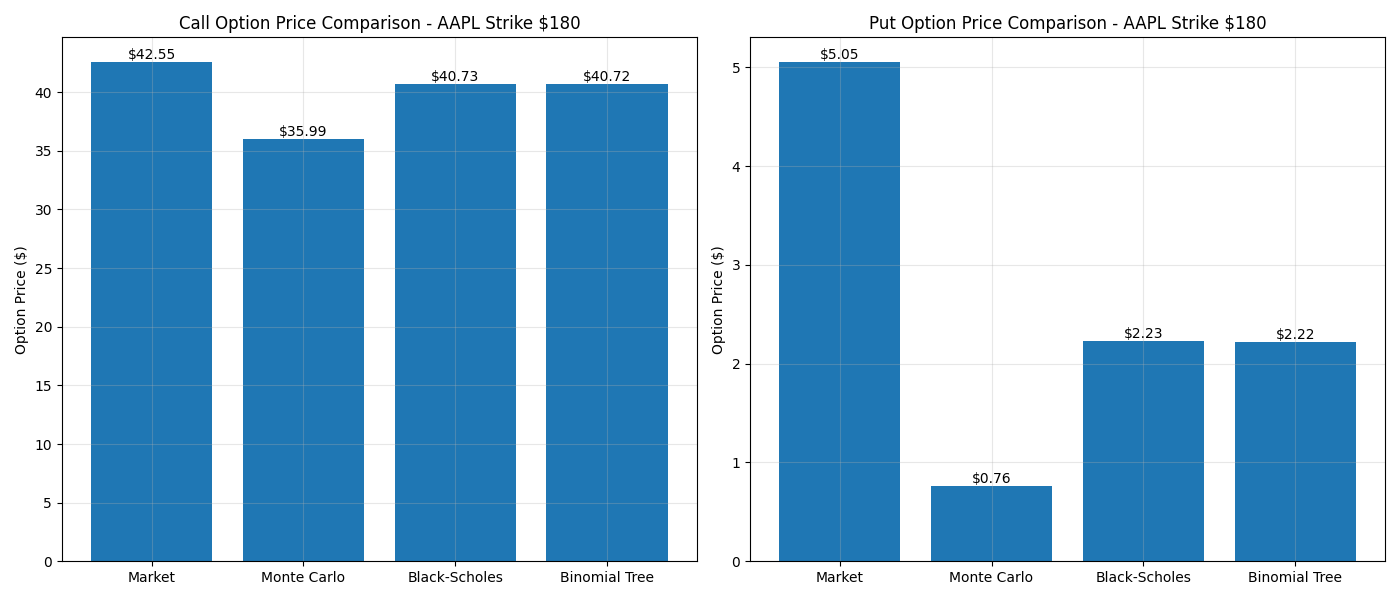
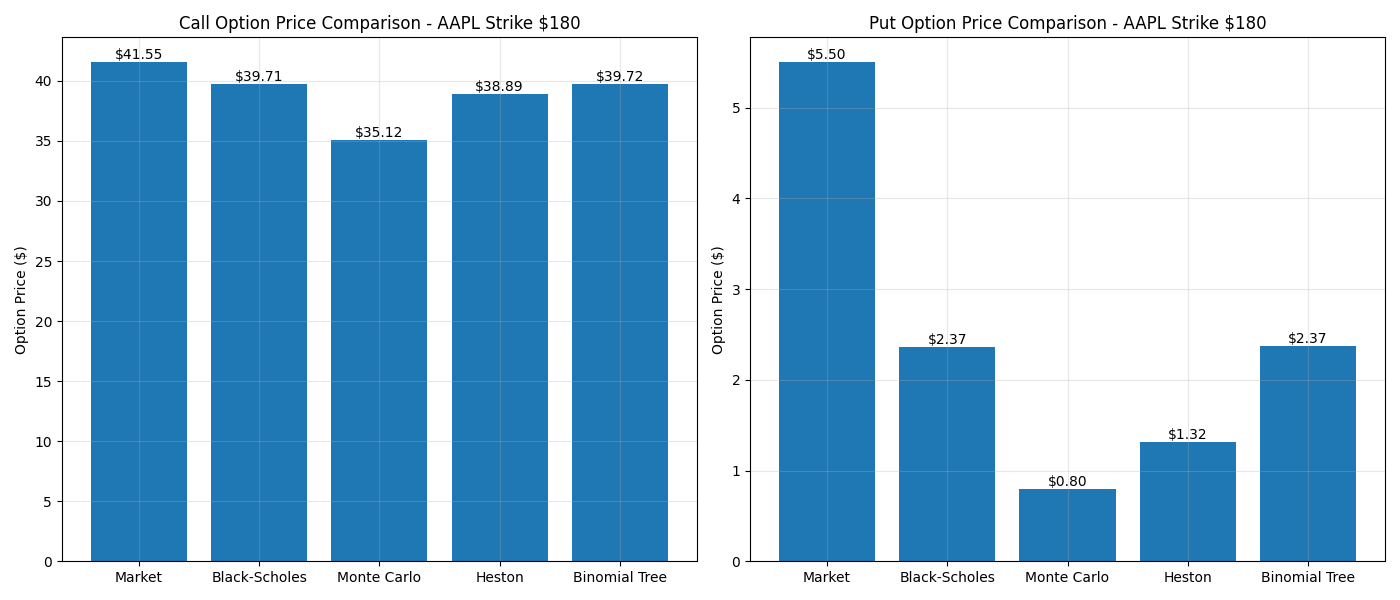
Ajout image

diff --git a/services/option_pricer.py b/services/option_pricer.py
@@ -1,45 +1,53 @@
+import numpy as np
 import matplotlib.pyplot as plt
-from models.monte_carlo_pricer import MonteCarloPricer
+from models import monte_carlo_pricer
 from models.black_scholes_pricer import BlackScholesPricer
+from models.monte_carlo_pricer import MonteCarloPricer
+from models.heston_pricer import HestonPricer
+from models.binomial_tree_pricer import BinomialTreePricer
 from data.market_data import MarketData
 from models.greek_calculator import GreekCalculator
-from models.binomial_tree_pricer import BinomialTreePricer
 
 class OptionPricer:
-    def __init__(self, option, stock_data, num_simulations=10000, num_steps=100):
+    def __init__(self, option, stock_data, num_simulations=10000, num_steps=252):
         """
         Initialise le pricer d'options.
 
         :param option: L'option à pricer (classe Option).
         :param stock_data: Les données de l'actif sous-jacent (classe StockData).
-        :param num_simulations: Nombre de simulations pour la méthode Monte Carlo (par défaut 10 000).
-        :param num_steps: Nombre de pas de temps pour l'arbre binomial (par défaut 100).
+        :param num_simulations: Nombre de simulations pour Monte Carlo (par défaut 10 000).
+        :param num_steps: Nombre de pas de temps pour les simulations (par défaut 252).
         """
         self.option = option
         self.stock_data = stock_data
         self.num_simulations = num_simulations
         self.num_steps = num_steps
-        self.monte_carlo_pricer = MonteCarloPricer(option, stock_data, num_simulations)
+
+        # Initialisation des pricers
         self.black_scholes_pricer = BlackScholesPricer(option, stock_data)
-        self.binomial_tree_pricer = BinomialTreePricer(option, stock_data, num_steps)  # Ajoutez cette ligne
+        self.monte_carlo_pricer = MonteCarloPricer(option, stock_data, num_simulations)
+        self.heston_pricer = HestonPricer(option, stock_data, kappa=2.0, theta=0.04, xi=0.1, rho=-0.7, v0=0.04)
+        self.binomial_tree_pricer = BinomialTreePricer(option, stock_data, num_steps) 
         self.market_data = MarketData(option)
         self.greek_calculator = GreekCalculator(option, stock_data)
 
     def compare_prices(self):
         """
-        Compare les prix des options (call et put) calculés par Monte Carlo, Black-Scholes, l'arbre binomial et le marché.
-        Affiche également les grecques.
+        Compare les prix des options (call et put) calculés par Black-Scholes, Monte Carlo, Heston, Binomial Tree et le marché.
+        Affiche également les grecques, les trajectoires de Heston et un histogramme des prix finaux.
         """
         # Calcul des prix pour les calls
-        mc_call_price = self.monte_carlo_pricer.price_call()
         bs_call_price = self.black_scholes_pricer.price_call()
-        bt_call_price = self.binomial_tree_pricer.price_call()  # Ajoutez cette ligne
+        mc_call_price = self.monte_carlo_pricer.price_call()
+        heston_call_price = self.heston_pricer.price_call(self.num_simulations, self.num_steps)
+        binomial_call_price = self.binomial_tree_pricer.price_call()
         market_call_price = self.market_data.get_market_price(call=True)
 
         # Calcul des prix pour les puts
-        mc_put_price = self.monte_carlo_pricer.price_put()
         bs_put_price = self.black_scholes_pricer.price_put()
-        bt_put_price = self.binomial_tree_pricer.price_put()  # Ajoutez cette ligne
+        mc_put_price = self.monte_carlo_pricer.price_put()
+        heston_put_price = self.heston_pricer.price_put(self.num_simulations, self.num_steps)
+        binomial_put_price = self.binomial_tree_pricer.price_put()
         market_put_price = self.market_data.get_market_price(call=False)
 
         # Calcul des grecques
@@ -57,9 +65,10 @@ class OptionPricer:
         print("-" * 30)
         if market_call_price is not None:
             print(f"{'Market':<15} ${market_call_price:>9.2f}")
-        print(f"{'Monte Carlo':<20} {mc_call_price:>9.2f} $")
         print(f"{'Black-Scholes':<20} {bs_call_price:>9.2f} $")
-        print(f"{'Binomial Tree':<20} {bt_call_price:>9.2f} $")  # Ajoutez cette ligne
+        print(f"{'Monte Carlo':<20} {mc_call_price:>9.2f} $")
+        print(f"{'Heston':<20} {heston_call_price:>9.2f} $")
+        print(f"{'Binomial Tree':<20} {binomial_call_price:>9.2f} $")
 
         # Résultats pour les puts
         print(f"\nPricing Results for Puts:")
@@ -67,9 +76,10 @@ class OptionPricer:
         print("-" * 30)
         if market_put_price is not None:
             print(f"{'Market':<15} ${market_put_price:>9.2f}")
-        print(f"{'Monte Carlo':<20} {mc_put_price:>9.2f} $")
         print(f"{'Black-Scholes':<20} {bs_put_price:>9.2f} $")
-        print(f"{'Binomial Tree':<20} {bt_put_price:>9.2f} $")  # Ajoutez cette ligne
+        print(f"{'Monte Carlo':<20} {mc_put_price:>9.2f} $")
+        print(f"{'Heston':<20} {heston_put_price:>9.2f} $")
+        print(f"{'Binomial Tree':<20} {binomial_put_price:>9.2f} $")
 
         # Affichage des grecques
         print(f"\nGreeks:")
@@ -79,25 +89,50 @@ class OptionPricer:
         print(f"{'Vega':<10} {vega:.4f}")
         print(f"{'Rho':<10} {rho:.4f}")
 
-        # Visualisation des résultats
-        self.plot_price_comparison(mc_call_price, bs_call_price, bt_call_price, market_call_price,
-                                  mc_put_price, bs_put_price, bt_put_price, market_put_price)
+        # Visualisation des trajectoires de Heston
+        #self.heston_pricer.plot_trajectories(num_simulations=10, num_steps=self.num_steps)
 
-    def plot_price_comparison(self, mc_call_price, bs_call_price, bt_call_price, market_call_price,
-                          mc_put_price, bs_put_price, bt_put_price, market_put_price):
+        # Histogramme des prix finaux simulés par Monte Carlo
+        #self.plot_monte_carlo_histogram()
+        self.plot_price_comparison(bs_call_price, mc_call_price, heston_call_price, binomial_call_price, market_call_price,
+                              bs_put_price, mc_put_price, heston_put_price, binomial_put_price, market_put_price)
+    def plot_monte_carlo_histogram(self):
         """
-        Affiche un graphique comparant les prix des options (call et put) calculés par Monte Carlo, Black-Scholes, l'arbre binomial et le marché.
+        Affiche un histogramme des prix finaux simulés par Monte Carlo.
+        """
+        current_price = self.stock_data.current_price
+        volatility = self.stock_data.volatility
+        risk_free_rate = self.option.risk_free_rate
+        time_to_maturity = self.option.time_to_maturity
+        
+        paths = monte_carlo_pricer.generate_random_walks(current_price, volatility, risk_free_rate, time_to_maturity, self.num_simulations)
+        final_prices = paths[:, -1]
+
+        plt.figure(figsize=(10, 6))
+        plt.hist(final_prices, bins=50, alpha=0.75, color='blue', edgecolor='black')
+        plt.title(f'Distribution des Prix Finaux (Monte Carlo) - {self.option.ticker}')
+        plt.xlabel('Prix Final ($)')
+        plt.ylabel('Fréquence')
+        plt.grid(True, alpha=0.3)
+        plt.axvline(self.option.strike_price, color='red', linestyle='dashed', linewidth=2, label='Strike Price')
+        plt.legend()
+        plt.show()
+
+    def plot_price_comparison(self, bs_call_price, mc_call_price, heston_call_price, binomial_call_price, market_call_price,
+                              bs_put_price, mc_put_price, heston_put_price, binomial_put_price, market_put_price):
+        """
+        Affiche un graphique comparant les prix des options (call et put) calculés par Black-Scholes, Monte Carlo, Heston, Binomial Tree et le marché.
         """
         # Données pour les calls
-        call_methods = ['Monte Carlo', 'Black-Scholes', 'Binomial Tree']
-        call_prices = [mc_call_price, bs_call_price, bt_call_price]
+        call_methods = ['Black-Scholes', 'Monte Carlo', 'Heston', 'Binomial Tree']
+        call_prices = [bs_call_price, mc_call_price, heston_call_price, binomial_call_price]
         if market_call_price is not None:
             call_methods.insert(0, 'Market')
             call_prices.insert(0, market_call_price)
 
         # Données pour les puts
-        put_methods = ['Monte Carlo', 'Black-Scholes', 'Binomial Tree']
-        put_prices = [mc_put_price, bs_put_price, bt_put_price]
+        put_methods = ['Black-Scholes', 'Monte Carlo', 'Heston', 'Binomial Tree']
+        put_prices = [bs_put_price, mc_put_price, heston_put_price, binomial_put_price]
         if market_put_price is not None:
             put_methods.insert(0, 'Market')
             put_prices.insert(0, market_put_price)

diff --git a/main.py b/main.py
@@ -7,7 +7,7 @@ if __name__ == "__main__":
     ticker = "AAPL"
     strike_price = 180
     risk_free_rate = 0.05
-    num_simulations = 1000
+    num_simulations = 10000
 
     # Récupération des données de l'action
     stock_data = StockData(ticker)
